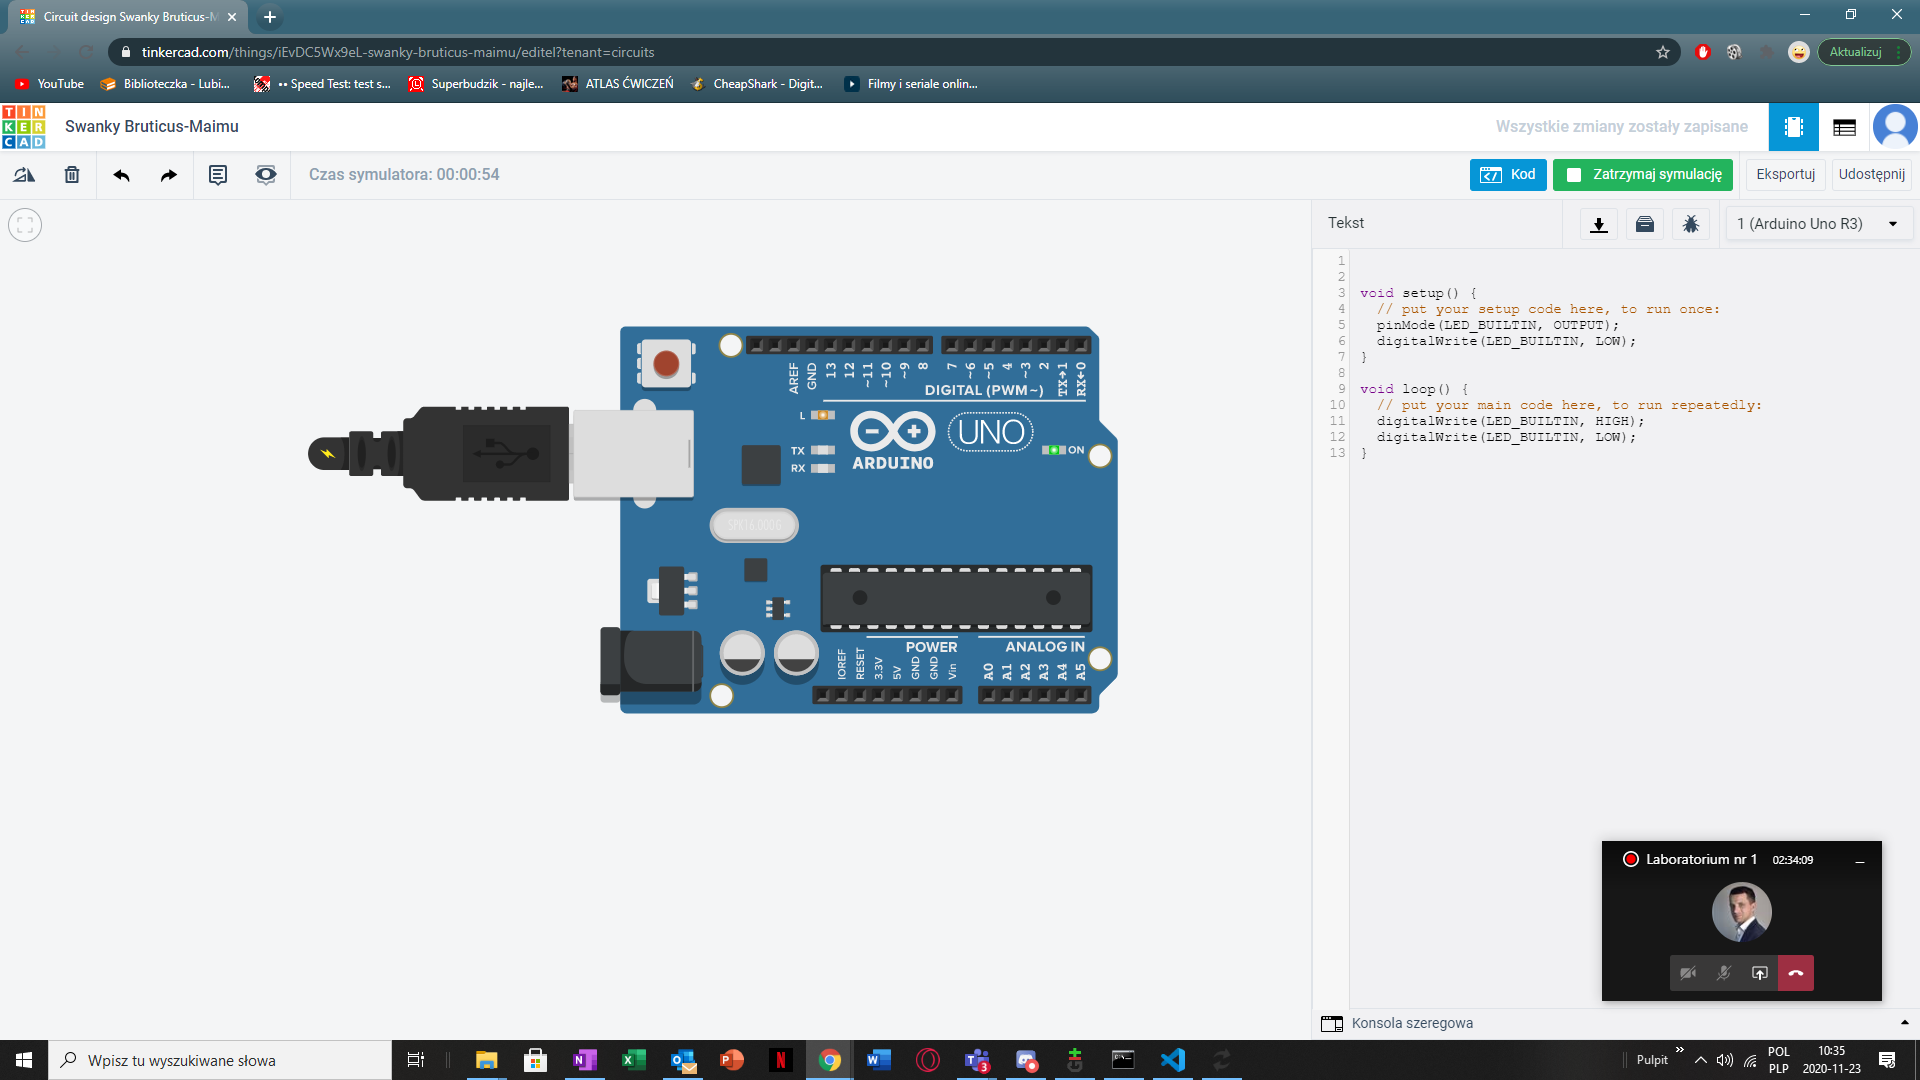
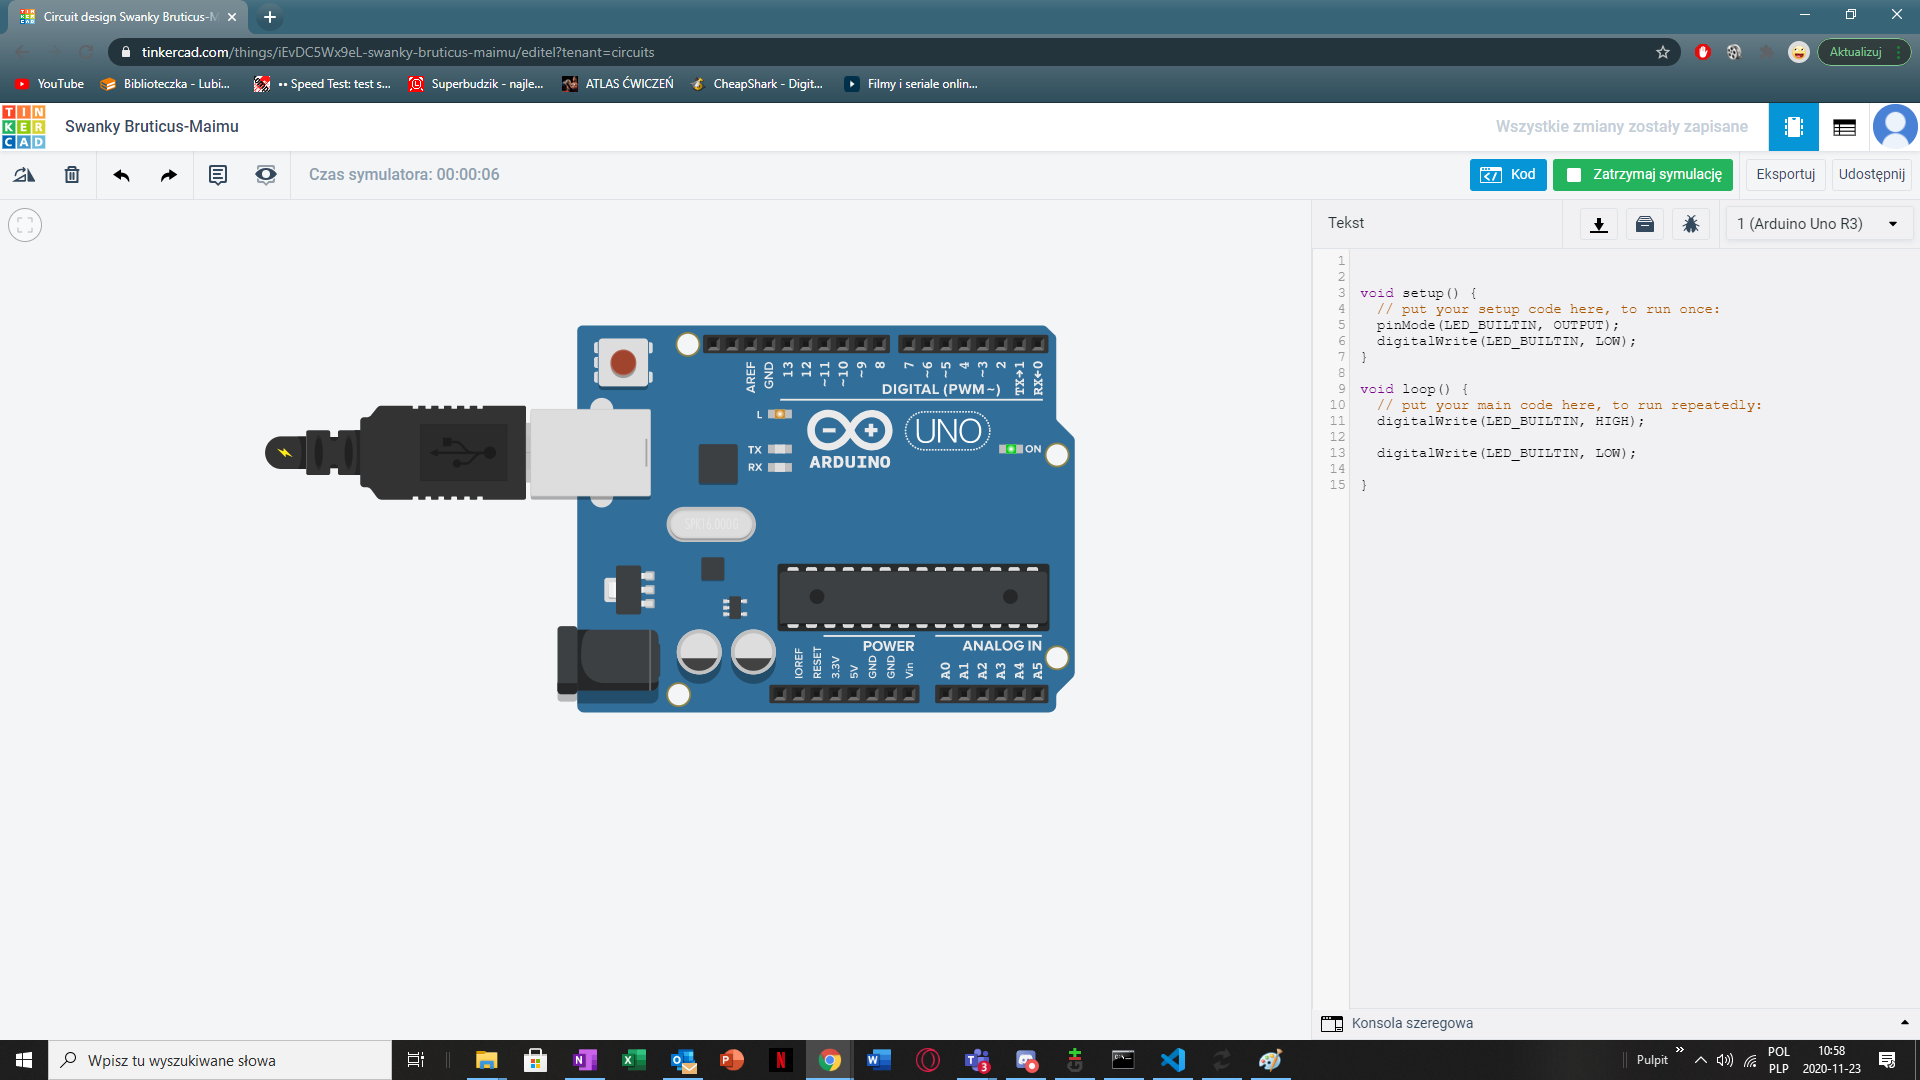
"Wykonano zadanie 2.2.1b"

diff --git a/Zadania 2-2/src/main.cpp b/Zadania 2-2/src/main.cpp
@@ -9,5 +9,7 @@ void setup() {
 void loop() {
   // put your main code here, to run repeatedly:
   digitalWrite(LED_BUILTIN, HIGH);
+  delay(500);
   digitalWrite(LED_BUILTIN, LOW);
+  delay(500);
 }
